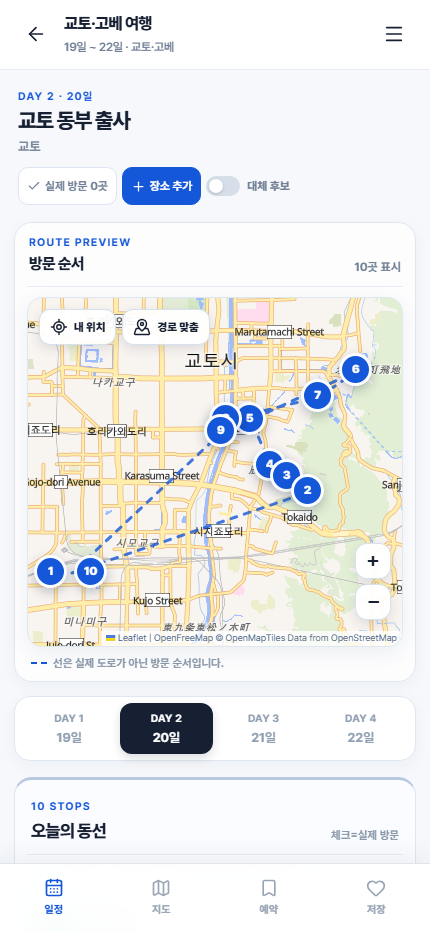
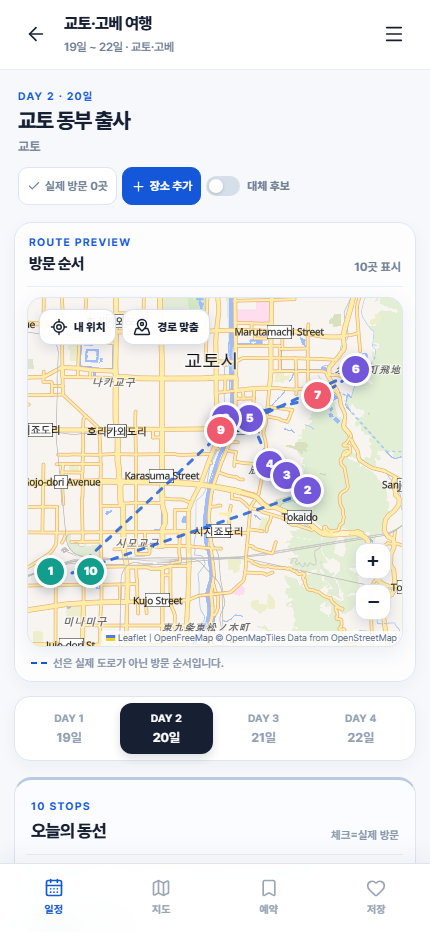
Use category colors for map markers

diff --git a/src/Prototype.tsx b/src/Prototype.tsx
@@ -93,7 +93,6 @@ const trip = tripDataFiles[`../${tripSlug}/trip.json`] ?? tripDataFiles["../kyot
 const tripStorageKey = `travel-map-state-${tripSlug}`;
 const tripDestinationLabel = trip.title.replace(/\s*여행(?:\s*지도)?$/, "").trim();
 const tripDateLabel = trip.days.length ? `${trip.days[0].dayOfMonth}일 ~ ${trip.days[trip.days.length - 1].dayOfMonth}일 · ${tripDestinationLabel || trip.days[0].city}` : "여행 일정";
-const DAY_COLORS = ["#7357db", "#1457d9", "#139d8c", "#ef5a6f"];
 const CATEGORY_COLORS: Record<Category, string> = {
   photo: "#7357db",
   restaurant: "#ef5a6f",
@@ -409,7 +408,7 @@ function MapButtons({ routePlaces, onLocate }: { routePlaces: MapPlace[]; onLoca
 }
 
 function OfflineMapFallback({ places, onSelect }: { places: MapPlace[]; onSelect: (place: MapPlace) => void }) {
-  return <div className="offline-map" role="status"><div className="offline-map-icon"><MapIcon size={20} /></div><strong>지도를 불러올 수 없습니다</strong><p>저장된 일정과 주소는 계속 확인할 수 있어요.</p><div className="offline-place-list">{places.filter((place) => !place.optional).slice(0, 5).map((place) => <button type="button" key={place.id} onClick={() => onSelect(place)}><span className="offline-place-number">{place.order}</span><span>{place.name}</span><ChevronRight size={15} /></button>)}</div></div>;
+  return <div className="offline-map" role="status"><div className="offline-map-icon"><MapIcon size={20} /></div><strong>지도를 불러올 수 없습니다</strong><p>저장된 일정과 주소는 계속 확인할 수 있어요.</p><div className="offline-place-list">{places.filter((place) => !place.optional).slice(0, 5).map((place) => <button type="button" key={place.id} onClick={() => onSelect(place)}><span className="offline-place-number" style={{ "--number-color": CATEGORY_COLORS[place.category] } as CSSProperties}>{place.order}</span><span>{place.name}</span><ChevronRight size={15} /></button>)}</div></div>;
 }
 
 function TripMap({ places, routePlaces, selectedPlace, onSelect, userLocation, onUserLocation, mode = "day" }: { places: MapPlace[]; routePlaces: MapPlace[]; selectedPlace: Place | null; onSelect: (place: MapPlace) => void; userLocation: Coordinate | null; onUserLocation: (location: Coordinate) => void; mode?: "day" | "all" }) {
@@ -445,7 +444,7 @@ function TripMap({ places, routePlaces, selectedPlace, onSelect, userLocation, o
         <ZoomControl position="bottomright" />
         <MapButtons routePlaces={routePlaces} onLocate={requestLocation} />
         {routePoints.length > 1 ? <Polyline positions={routePoints} pathOptions={{ color: "#1457d9", weight: 3, opacity: 0.8, dashArray: "6 8" }} /> : null}
-        {mapPlaces.map((place) => { const point = coordinates(place); if (!point) return null; const color = DAY_COLORS[(place.dayNumber - 1) % DAY_COLORS.length]; const label = mode === "all" ? `${place.dayNumber}·${place.order}` : String(place.order); const Icon = categoryIcons[place.category]; return <Marker key={`${place.id}-${place.order}`} position={point} icon={createNumberIcon(label, selectedPlace?.id === place.id, Boolean(place.optional), color, markerOffsets.get(place.id) ?? 0)} eventHandlers={{ click: () => onSelect(place) }} alt={`DAY ${place.dayNumber} ${place.order}번 ${place.name}`}><Tooltip direction="top" offset={[0, -14]} opacity={0.96}><span className="map-tooltip"><Icon size={12} /> {place.name}<small>{categoryLabels[place.category]}</small></span></Tooltip></Marker>; })}
+        {mapPlaces.map((place) => { const point = coordinates(place); if (!point) return null; const color = CATEGORY_COLORS[place.category]; const label = mode === "all" ? `${place.dayNumber}·${place.order}` : String(place.order); const Icon = categoryIcons[place.category]; return <Marker key={`${place.id}-${place.order}`} position={point} icon={createNumberIcon(label, selectedPlace?.id === place.id, Boolean(place.optional), color, markerOffsets.get(place.id) ?? 0)} eventHandlers={{ click: () => onSelect(place) }} alt={`DAY ${place.dayNumber} ${place.order}번 ${place.name}`}><Tooltip direction="top" offset={[0, -14]} opacity={0.96}><span className="map-tooltip"><Icon size={12} /> {place.name}<small>{categoryLabels[place.category]}</small></span></Tooltip></Marker>; })}
       </MapContainer>}
       {mapUnavailable ? <button type="button" className="map-retry" onClick={() => { setMapError(false); setIsOnline(navigator.onLine); }}><MapIcon size={15} /> 지도 다시 불러오기</button> : null}
     </div>
@@ -564,7 +563,7 @@ function AllMapView({ allPlaces, selectedPlace, onSelectPlace, onUserLocation, u
   const filtered = allPlaces.filter((place) => (dayFilter === "all" || place.dayOfMonth === dayFilter) && (categoryFilter === "all" || place.category === categoryFilter));
   const routePlaces = dayFilter === "all" ? allPlaces.filter((place) => !place.optional) : filtered.filter((place) => !place.optional);
   const categoryOptions: Array<{ key: CategoryFilter; label: string }> = [{ key: "all", label: "전체" }, { key: "photo", label: "사진" }, { key: "restaurant", label: "맛집" }, { key: "cafe", label: "카페" }, { key: "hotel", label: "숙소" }];
-  return <main className="all-map-view"><section className="view-heading"><span className="eyebrow">ALL DAYS</span><h1>전체 지도</h1><p>날짜와 장소 종류로 경로를 가볍게 좁혀볼 수 있어요.</p></section><div className="filter-group"><span className="filter-label">날짜</span><div className="filter-row">{[{ key: "all", label: "전체" }, ...trip.days.map((day) => ({ key: day.dayOfMonth, label: String(day.dayOfMonth) }))].map((filter) => <button type="button" key={String(filter.key)} className={dayFilter === filter.key ? "is-active" : ""} onClick={() => setDayFilter(filter.key as DayFilter)}>{filter.label}</button>)}</div></div><div className="filter-group"><span className="filter-label">장소</span><div className="filter-row">{categoryOptions.map((filter) => <button type="button" key={filter.key} className={categoryFilter === filter.key ? "is-active" : ""} onClick={() => setCategoryFilter(filter.key)}>{filter.label}</button>)}</div></div><TripMap mode="all" places={filtered} routePlaces={routePlaces} selectedPlace={selectedPlace} onSelect={onSelectPlace} userLocation={userLocation} onUserLocation={onUserLocation} /><section className="all-map-list"><div className="section-heading"><div><span className="eyebrow">{filtered.length} PLACES</span><h2>필터 결과</h2></div></div>{filtered.filter((place) => !place.optional).slice(0, 12).map((place) => <button type="button" key={place.id} onClick={() => onSelectPlace(place)} className={selectedPlace?.id === place.id ? "is-selected" : ""}><span className="all-map-number" style={{ "--number-color": DAY_COLORS[(place.dayNumber - 1) % DAY_COLORS.length] } as CSSProperties}>{place.order}</span><span><strong>{place.name}</strong><small>DAY {place.dayNumber} · {categoryLabels[place.category]}</small></span><ChevronRight size={16} /></button>)}</section></main>;
+  return <main className="all-map-view"><section className="view-heading"><span className="eyebrow">ALL DAYS</span><h1>전체 지도</h1><p>날짜와 장소 종류로 경로를 가볍게 좁혀볼 수 있어요.</p></section><div className="filter-group"><span className="filter-label">날짜</span><div className="filter-row">{[{ key: "all", label: "전체" }, ...trip.days.map((day) => ({ key: day.dayOfMonth, label: String(day.dayOfMonth) }))].map((filter) => <button type="button" key={String(filter.key)} className={dayFilter === filter.key ? "is-active" : ""} onClick={() => setDayFilter(filter.key as DayFilter)}>{filter.label}</button>)}</div></div><div className="filter-group"><span className="filter-label">장소</span><div className="filter-row">{categoryOptions.map((filter) => <button type="button" key={filter.key} className={categoryFilter === filter.key ? "is-active" : ""} onClick={() => setCategoryFilter(filter.key)}>{filter.label}</button>)}</div></div><TripMap mode="all" places={filtered} routePlaces={routePlaces} selectedPlace={selectedPlace} onSelect={onSelectPlace} userLocation={userLocation} onUserLocation={onUserLocation} /><section className="all-map-list"><div className="section-heading"><div><span className="eyebrow">{filtered.length} PLACES</span><h2>필터 결과</h2></div></div>{filtered.filter((place) => !place.optional).slice(0, 12).map((place) => <button type="button" key={place.id} onClick={() => onSelectPlace(place)} className={selectedPlace?.id === place.id ? "is-selected" : ""}><span className="all-map-number" style={{ "--number-color": CATEGORY_COLORS[place.category] } as CSSProperties}>{place.order}</span><span><strong>{place.name}</strong><small>DAY {place.dayNumber} · {categoryLabels[place.category]}</small></span><ChevronRight size={16} /></button>)}</section></main>;
 }
 
 function ReservationsView({ places, reservationDoneIds, onToggleReservation, onSelectPlace }: { places: MapPlace[]; reservationDoneIds: string[]; onToggleReservation: (id: string) => void; onSelectPlace: (place: MapPlace) => void }) {

diff --git a/src/prototype.css b/src/prototype.css
@@ -388,7 +388,7 @@
 
 .number-marker.is-optional {
   opacity: 0.72;
-  background: #69768a;
+  background: var(--marker-color);
 }
 
 .leaflet-tooltip.map-tooltip {
@@ -549,7 +549,7 @@
   flex: 0 0 22px;
   place-items: center;
   border-radius: 50%;
-  background: var(--purple);
+  background: var(--number-color, var(--purple));
   color: white;
   font-size: 0.65rem;
   font-weight: 900;

diff --git a/README.md b/README.md
@@ -144,7 +144,7 @@ Notion 토큰은 프론트 코드에 포함하지 않습니다. 여행 데이터
 - 루트 여행 허브에서 여행지별 앱으로 이동합니다. 공개 주소는 저장소를 가져간 계정의 Pages 주소를 사용합니다.
 - 교토·고베 앱은 `kyoto-kobe-trip/`에 독립적으로 보관되며, GitHub Pages에서는 `<destination-slug>` 경로로 열립니다.
 - Leaflet + OpenFreeMap/OpenStreetMap 기반 한글 지도, 날짜별 경로 미리보기, 장소별 Google Maps 장소 보기·길찾기를 제공합니다.
-- 숙소·사진 명소·맛집·카페·역·공항·짐 보관/이동을 아이콘·색상·범례로 구분합니다.
+- 숙소·사진 명소·맛집·카페·역·공항·짐 보관/이동을 아이콘·색상·범례로 구분하고, 지도 숫자 마커와 목록 번호에도 같은 카테고리 색상을 적용합니다.
 - 카드와 상세 화면에 주소, 영업시간, 휴무일, 가격, 입장료, 예약 상태, 운영 메모를 표시합니다. 식당·카페의 휴무일은 별도 표시하며 확인하지 못한 값은 `확인 필요`로 표시합니다.
 - 일본어 메뉴 아래에 한국어 번역과 가격을 병기하고, 메뉴별 음식 썸네일·장소 대표 이미지·지도 미리보기 폴백을 제공합니다.
 - 기준 식당 주변의 대체 식당 후보, 예약 링크, 공식 정보·메뉴 원문 링크를 상세 화면에서 확인할 수 있습니다.
